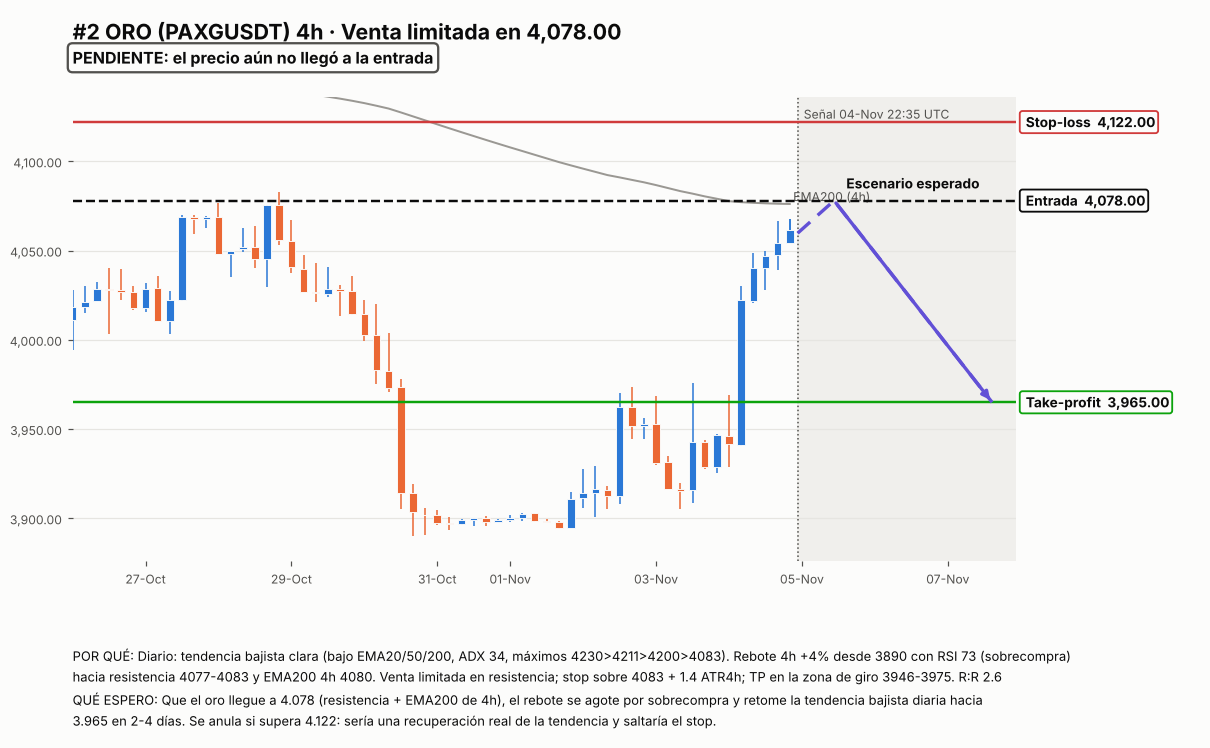
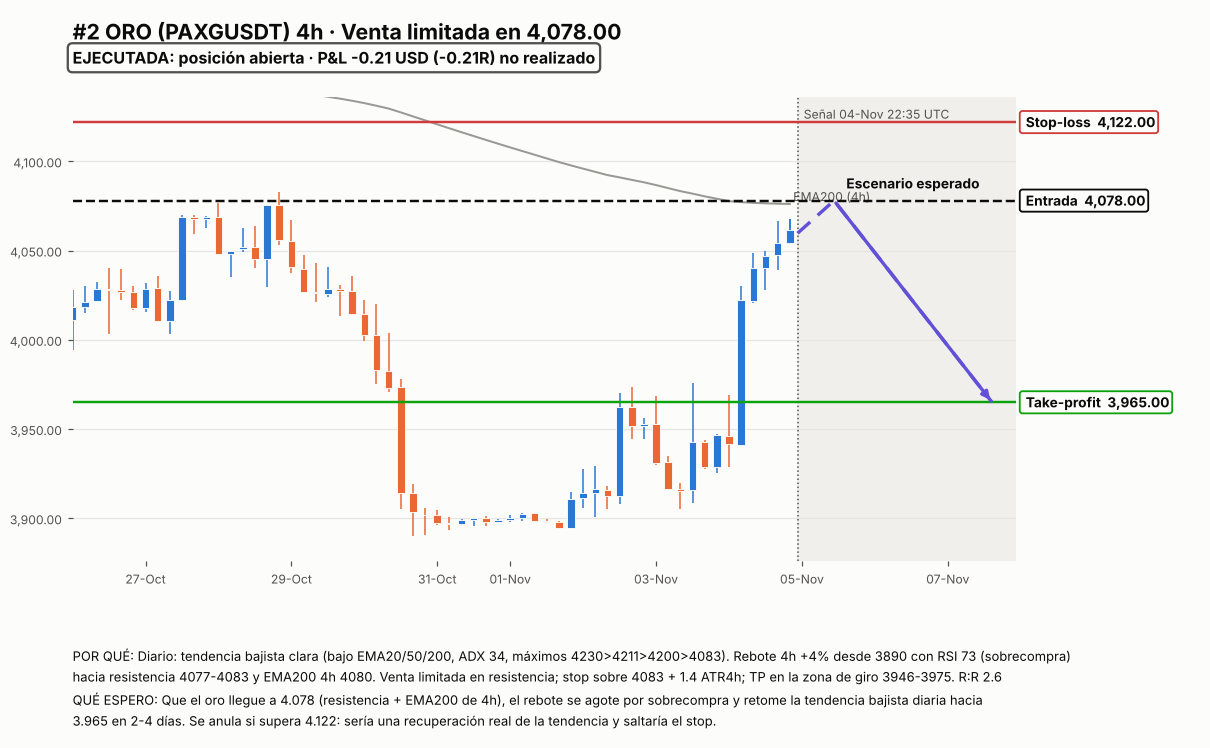
Señales paper: venta de oro ejecutada en 4.078 (2026-11-05)
Claude-Session: https://claude.ai/code/session_0112KUKqm1jJteJG2bRjWDeX

Changed region(s): [[0.0612, 0.0307, 0.5198, 0.123]]

diff --git a/trading_bot/paper_signals/REPORTE.md b/trading_bot/paper_signals/REPORTE.md
@@ -1,17 +1,17 @@
 # Experimento de señales en paper — reporte
 
-Generado: 2026-11-05 00:12 UTC · capital simulado 100 USD · riesgo 1.0% por operación · sin apalancamiento
+Generado: 2026-11-05 01:17 UTC · capital simulado 100 USD · riesgo 1.0% por operación · sin apalancamiento
 
-|   id | creada           | activo   | dir   | tipo   |   entrada |   stop |    tp | estado    | ejecutada   | salida   |   pnl_usd |   R |   comisiones |
-|-----:|:-----------------|:---------|:------|:-------|----------:|-------:|------:|:----------|:------------|:---------|----------:|----:|-------------:|
-|    1 | 2026-11-04T22:35 | BTC      | short | limit  |     81300 |  82500 | 77800 | pendiente | -           | -        |         0 |   0 |            0 |
-|    2 | 2026-11-04T22:35 | ORO      | short | limit  |      4078 |   4122 |  3965 | pendiente | -           | -        |         0 |   0 |            0 |
+|   id | creada           | activo   | dir   | tipo   |   entrada |   stop |    tp | estado    | ejecutada   | salida          |   pnl_usd |     R |   comisiones |
+|-----:|:-----------------|:---------|:------|:-------|----------:|-------:|------:|:----------|:------------|:----------------|----------:|------:|-------------:|
+|    1 | 2026-11-04T22:35 | BTC      | short | limit  |     81300 |  82500 | 77800 | pendiente | -           | -               |     0     |  0    |        0     |
+|    2 | 2026-11-04T22:35 | ORO      | short | limit  |      4078 |   4122 |  3965 | abierta   | 4,078.00    | (mark 4,085.10) |    -0.206 | -0.21 |        0.075 |
 
 - Operaciones cerradas: 0 (ganadoras 0, perdedoras 0)
 - P&L realizado: +0.00 USD (+0.00%)
-- P&L abierto (no realizado): +0.00 USD
+- P&L abierto (no realizado): -0.21 USD
 - Profit factor: n/d
-- Comisiones: 0.00 USD
-- Equity estimado: 100.00 USD
+- Comisiones: 0.07 USD
+- Equity estimado: 99.79 USD
 
 Muestra pequeña: con pocas operaciones el resultado NO distingue habilidad de suerte.
